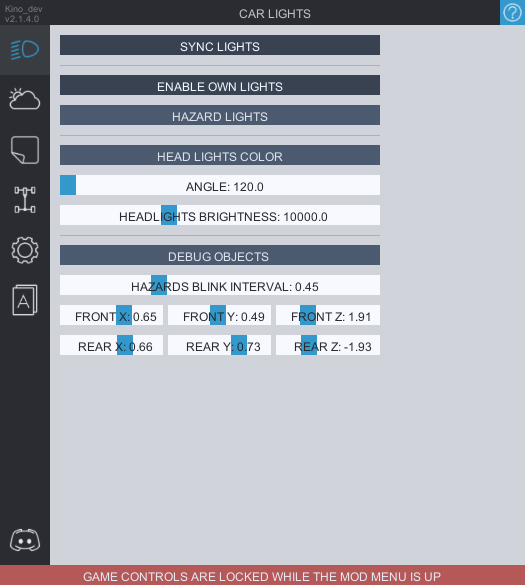
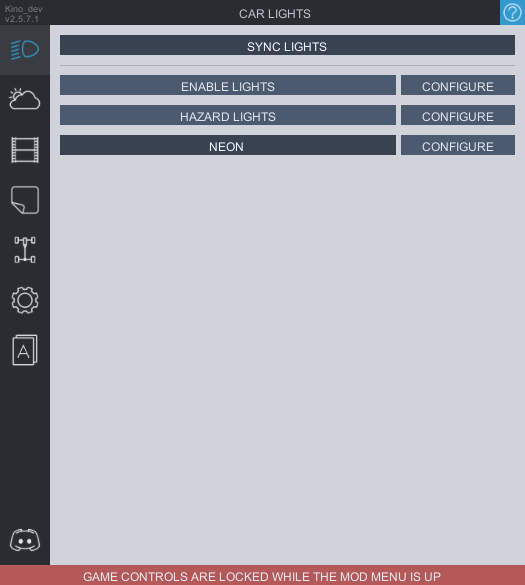
readme update

Changed region(s): [[0.0, 0.0615, 1.0, 0.6462], [0.3352, 0.0615, 0.64, 0.0923]]

diff --git a/Help/CarLights.md b/Help/CarLights.md
@@ -1,17 +1,14 @@
 ![CarLights](../Images/car_lights.png)
 
 # Car Lights
-Tab with setting for your headlights and tail lights. From here you can add lights to your car, cars of other players in the lobby and change their settings.
-Lights are pre-configured for all the cars, however depending on the bodykit you might want to change the position settings for a better fit. Light settings are synced between players who have the mod.
+Tab with headlights, hazard lights and neon/underglow.
 
-**`SYNC LIGHTS`** button toggles the light synchronization. This only affect whether or not you will see other players enabling/disabling their lights. Color and and brightness are always synchronized between players with the mod.
+**`SYNC LIGHTS`** button toggles the light synchronization. This only affect whether or not you will see other players enabling/disabling their lights. Color and and brightness are always synchronized between players with the mod.  
 
-**`HAZARD LIGHTS`** enables the hazards. They are pre-configured for all the cars, but you can change their position to better fit the bodykit. You can adjust how quick they blink as well.
+**`ENABLE LIGHTS`** enables the headlights on your car. Pretty self explanatory.  
 
-**`HEAD LIGHTS COLOR`** opens the small window where you can adjust the color of your lights
+**`HAZARD LIGHTS`** enables the hazards. They are pre-configured for all the cars, but you can change their position to better fit the bodykit. You can adjust how quick they blink as well.  
 
-**`ANGLE`** Adjusts the angle of your lights. It is recommended to keep this setting at 120 for the best look, but you can adjust this if you want.
+**`NEON`** underglow. The dream of every ricer. Pre-configured for all the cars.  
 
-**`HEADLIGHTS BRIGHTNESS`** Allows you to change the brightness of your lights, CarX default value is 20000, however it is recommended to keep it at 10000 for the more realistic look.
-
-<p style="color:red;"><b>Since the module replaces the CarX lights, it has certain issues. The light have a conflict with Goats maploader and might disappear on maps with lots of lighting (however from personal testing there's no deffinite cause and sometimes they work just fine). Either way if you're having issues, you can disable lights module from the SETTINGS tab (only works while you're in the garage)</p></b>
+**`CONFIGURE`** buttons open the window where you can adjust the lighting features.
